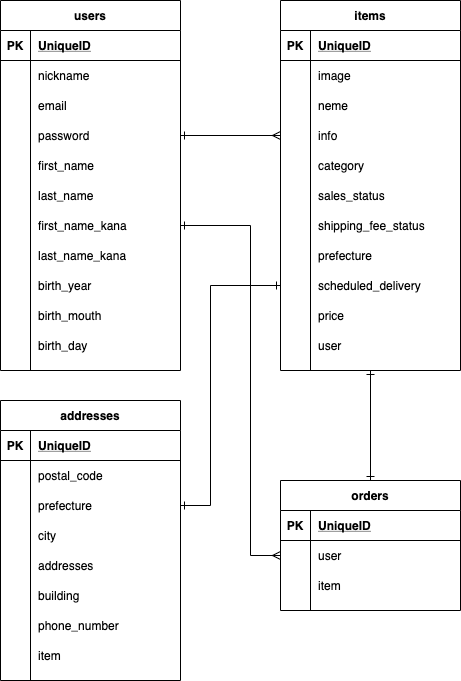
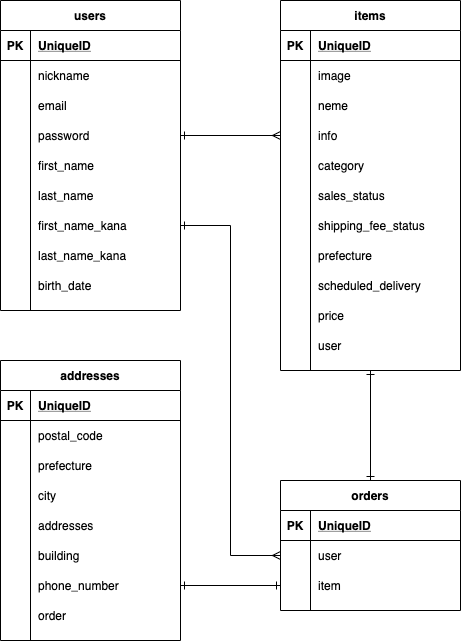
修正

diff --git a/README.md b/README.md
@@ -2,18 +2,16 @@
 
 ## usersテーブル
 
-| Column          | Type    | Options     |
-| --------------- | ------- | ----------- |
-| nickname        | string  | null: false |
-| email           | string  | null: false |
-| password        | string  | null: false |
-| first_name      | string  | null: false |
-| last_name       | string  | null: false |
-| first_name_kana | string  | null: false |
-| last_name_kana  | string  | null: false |
-| birth_year      | integer | null: false |
-| birth_month     | integer | null: false |
-| birth_day       | integer | null: false |
+| Column             | Type    | Options     |
+| ------------------ | ------- | ----------- |
+| nickname           | string  | null: false |
+| email              | string  | null: false |
+| encrypted_password | string  | null: false |
+| first_name         | string  | null: false |
+| last_name          | string  | null: false |
+| first_name_kana    | string  | null: false |
+| last_name_kana     | string  | null: false |
+| birth_date         | date    | null: false |
 
 ### Association
 
@@ -22,23 +20,22 @@
 
 ## itemsテーブル
 
-| Column              | Type       | Options                        |
-| ------------------- | ---------- | ------------------------------ |
-| name                | text       | null: false                    |
-| info                | text       | null: false                    |
-| category            | integer    | null: false                    |
-| sales_status        | integer    | null: false                    |
-| shipping_fee_status | integer    | null: false                    |
-| prefecture          | integer    | null: false                    |
-| scheduled_delivery  | integer    | null: false                    |
-| price               | integer    | null: false                    |
-| user                | references | null: false, foreign_key: true |
+| Column                 | Type       | Options                        |
+| ---------------------- | ---------- | ------------------------------ |
+| name                   | string     | null: false                    |
+| info                   | text       | null: false                    |
+| category_id            | integer    | null: false                    |
+| sales_status_id        | integer    | null: false                    |
+| shipping_fee_status_id | integer    | null: false                    |
+| prefecture_id          | integer    | null: false                    |
+| scheduled_delivery_id  | integer    | null: false                    |
+| price                  | integer    | null: false                    |
+| user                   | references | null: false, foreign_key: true |
 
 ### Association
 
 - belongs_to :user
 - has_one    :order
-- has_one    :address
 
 ## ordersテーブル
 
@@ -51,19 +48,20 @@
 
 - belongs_to :user
 - belongs_to :item
+- has_one    :address
 
 ## addressesテーブル
 
-| Column       | Type       | Options                        |
-| ------------ | ---------- | ------------------------------ |
-| postal_code  | string     | null: false                    |
-| prefecture   | integer    | null: false                    |
-| city         | string     | null: false                    |
-| addresses    | string     | null: false                    |
-| building     | string     |                                |
-| phone_number | string     | null: false                    |
-| item         | references | null: false, foreign_key: true |
+| Column        | Type       | Options                        |
+| ------------- | ---------- | ------------------------------ |
+| postal_code   | string     | null: false                    |
+| prefecture_id | integer    | null: false                    |
+| city          | string     | null: false                    |
+| addresses     | string     | null: false                    |
+| building      | string     |                                |
+| phone_number  | string     | null: false                    |
+| order         | references | null: false, foreign_key: true |
 
 ### Association
 
-- belongs_to :item
+- belongs_to :order
